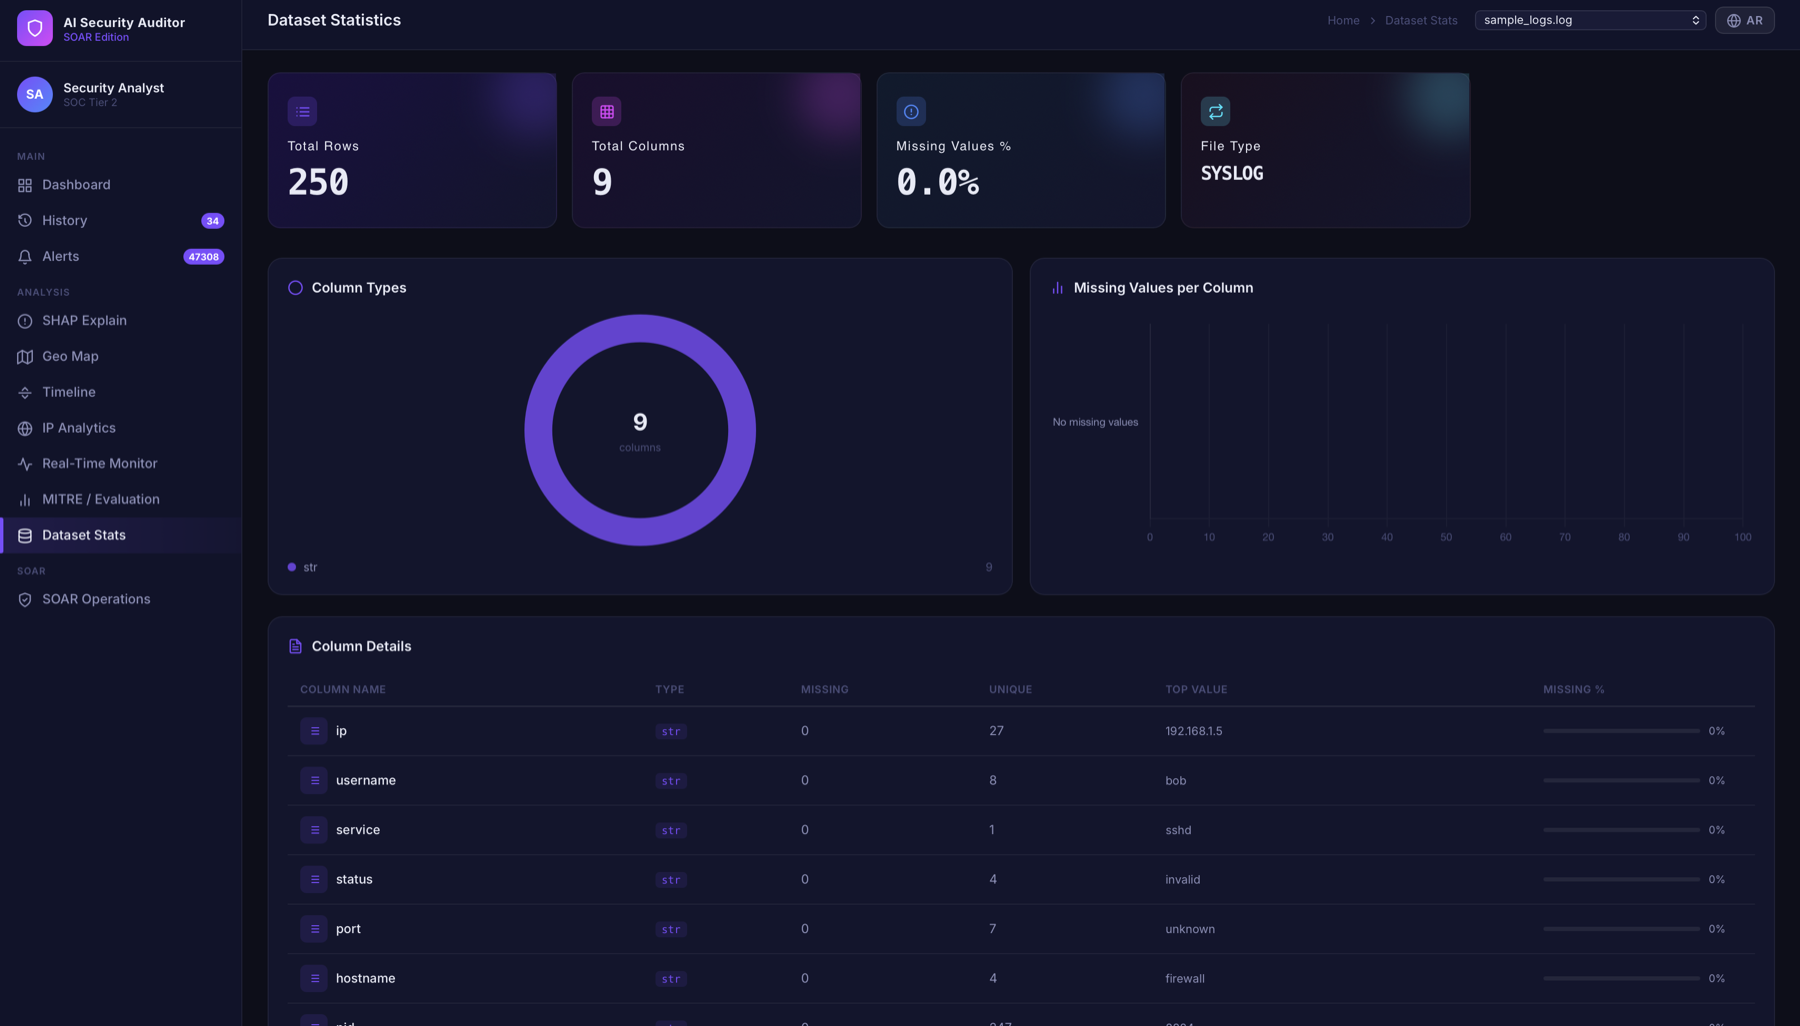
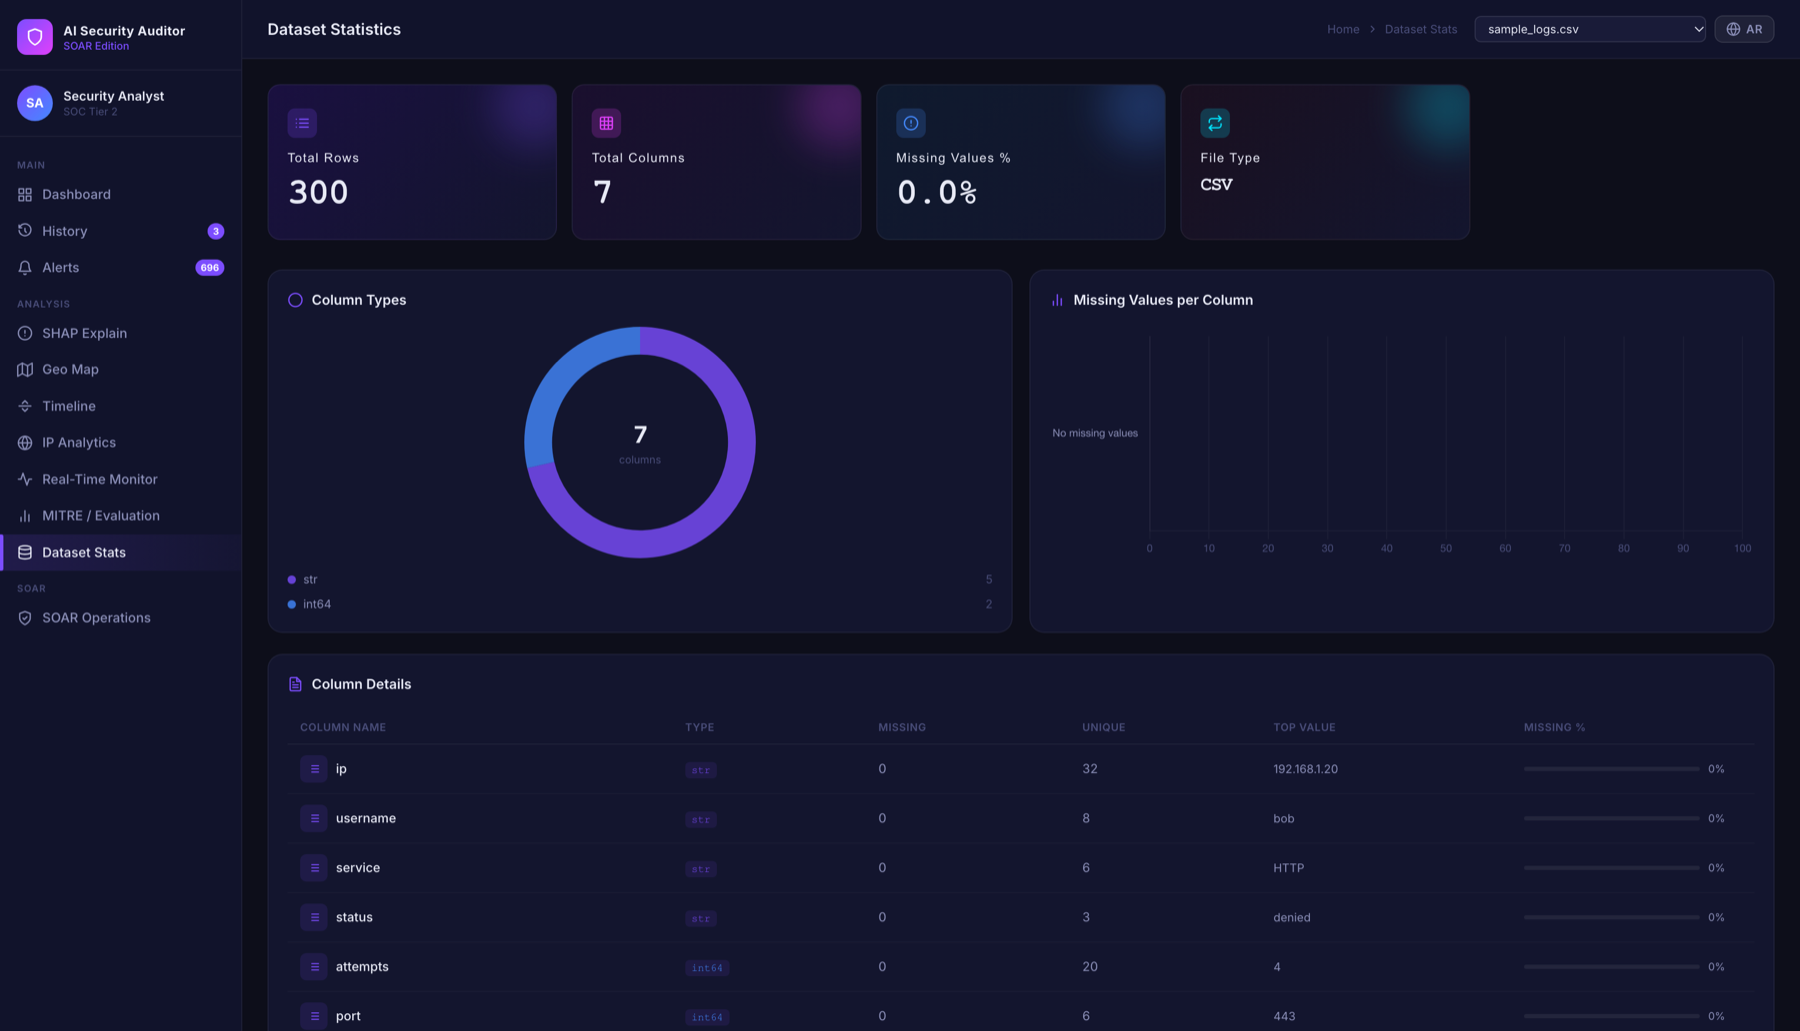
Fix SHAP and alerts display, refresh screenshots, add PORT setting
- SHAP: handle the 3D array returned by newer SHAP versions (the
  explanation and charts were silently empty); fix an invalid matplotlib
  color that broke the waterfall charts and close figures on errors
- Alerts page: map API fields (level/message) so severity counts and
  descriptions display correctly
- Restore static/logo_header.svg used by the methodology page
- Add PORT environment variable (macOS AirPlay occupies port 5000)
- Retake screenshots from sample_logs.csv so they match the README metrics
- Add a regression test for SHAP

diff --git a/static/js/app.js b/static/js/app.js
@@ -345,7 +345,12 @@ async function loadAlerts() {
   const rec  = await apiFetch(`/api/history/${id}`);
   scanDate = (rec.scanned_at||'').slice(0,10);
 
-  allAlerts = Array.isArray(data) ? data : [];
+  // The API returns {level, title, message}; this page works with {severity, description}.
+  allAlerts = (Array.isArray(data) ? data : []).map(a => ({
+    ...a,
+    severity:    a.severity || (a.level ? a.level.charAt(0).toUpperCase() + a.level.slice(1) : 'Low'),
+    description: a.description || a.message || ''
+  }));
 
   const cnt = { Critical:0, High:0, Medium:0, Low:0 };
   allAlerts.forEach(a => { const s = a.severity||'Low'; cnt[s] = (cnt[s]||0)+1; });

diff --git a/models/shap_explainer.py b/models/shap_explainer.py
@@ -51,7 +51,7 @@ def _summary_chart(sv: np.ndarray, feature_cols: list) -> str:
         ax.tick_params(colors="#8b8fb8", labelsize=8)
         for spine in ax.spines.values():
             spine.set_visible(False)
-        ax.xaxis.grid(True, color="rgba(255,255,255,0.05)", linestyle="--",
+        ax.xaxis.grid(True, color=(1, 1, 1, 0.05), linestyle="--",
                       linewidth=0.5)
         ax.set_axisbelow(True)
 
@@ -63,6 +63,7 @@ def _summary_chart(sv: np.ndarray, feature_cols: list) -> str:
         plt.tight_layout()
         return _chart_to_base64()
     except Exception:
+        plt.close("all")
         return ""
 
 
@@ -94,13 +95,14 @@ def _waterfall_chart(row_sv: np.ndarray, feature_cols: list,
         ax.tick_params(colors="#8b8fb8", labelsize=8)
         for spine in ax.spines.values():
             spine.set_visible(False)
-        ax.xaxis.grid(True, color="rgba(255,255,255,0.05)",
+        ax.xaxis.grid(True, color=(1, 1, 1, 0.05),
                       linestyle="--", linewidth=0.5)
         ax.set_axisbelow(True)
 
         plt.tight_layout()
         return _chart_to_base64()
     except Exception:
+        plt.close("all")
         return ""
 
 
@@ -115,9 +117,14 @@ def explain(model, X_all: np.ndarray, feature_cols: list,
         explainer   = shap.TreeExplainer(model)
         shap_values = explainer.shap_values(X_all)
 
-        sv = (shap_values[1]
-              if isinstance(shap_values, list) and len(shap_values) == 2
-              else shap_values)
+        # Older SHAP returns a list [class0, class1]; newer SHAP returns one
+        # array shaped (samples, features, classes). Keep the "suspicious" class.
+        if isinstance(shap_values, list) and len(shap_values) == 2:
+            sv = shap_values[1]
+        elif getattr(shap_values, "ndim", 2) == 3:
+            sv = shap_values[:, :, -1]
+        else:
+            sv = shap_values
 
         mean_abs   = np.abs(sv).mean(axis=0)
         sorted_idx = np.argsort(mean_abs)[::-1]

diff --git a/app.py b/app.py
@@ -44,11 +44,14 @@ app.config["SECRET_KEY"] = os.environ.get("SECRET_KEY") or os.urandom(24)
 # Debug mode is OFF unless explicitly enabled (FLASK_DEBUG=1). Never enable it on a real server.
 DEBUG = os.environ.get("FLASK_DEBUG", "0").strip().lower() in ("1", "true", "yes")
 
+# Port to listen on (default 5000). On macOS, AirPlay Receiver may occupy 5000 - set PORT=5001 if so.
+PORT = int(os.environ.get("PORT", "5000"))
+
 # WebSocket origins are restricted to the local dev URL(s); override with CORS_ORIGINS (comma-separated).
 CORS_ORIGINS = [
     o.strip()
     for o in os.environ.get(
-        "CORS_ORIGINS", "http://localhost:5000,http://127.0.0.1:5000"
+        "CORS_ORIGINS", f"http://localhost:{PORT},http://127.0.0.1:{PORT}"
     ).split(",")
     if o.strip()
 ]
@@ -684,12 +687,12 @@ def api_soar_stats():
 if __name__ == "__main__":
     print("\n🛡  AI Security Auditor v10")
     print("=" * 40)
-    print("  Dashboard:  http://localhost:5000")
-    print("  History:    http://localhost:5000/history")
-    print("  Alerts:     http://localhost:5000/alerts")
-    print("  Timeline:   http://localhost:5000/timeline")
-    print("  Map:        http://localhost:5000/map")
-    print("  Monitor:    http://localhost:5000/monitor")
-    print("  IP Analytics: http://localhost:5000/ip-analytics")
+    print(f"  Dashboard:  http://localhost:{PORT}")
+    print(f"  History:    http://localhost:{PORT}/history")
+    print(f"  Alerts:     http://localhost:{PORT}/alerts")
+    print(f"  Timeline:   http://localhost:{PORT}/timeline")
+    print(f"  Map:        http://localhost:{PORT}/map")
+    print(f"  Monitor:    http://localhost:{PORT}/monitor")
+    print(f"  IP Analytics: http://localhost:{PORT}/ip-analytics")
     print("=" * 40 + "\n")
-    socketio.run(app, debug=DEBUG, port=5000)
+    socketio.run(app, debug=DEBUG, port=PORT)

diff --git a/test_system.py b/test_system.py
@@ -137,3 +137,21 @@ def test_syslog_parsing():
         assert "success" in statuses
     finally:
         os.remove(tmp_path)
+
+
+def test_shap_explanation_is_produced():
+    """Regression: newer SHAP returns a 3D array; the explainer must still work."""
+    import numpy as np
+    from sklearn.ensemble import RandomForestClassifier
+    from models import shap_explainer
+
+    rng = np.random.default_rng(0)
+    X = rng.random((120, 5))
+    y = (X[:, 0] + X[:, 1] > 1).astype(int)
+    model = RandomForestClassifier(n_estimators=30, max_depth=6, random_state=0).fit(X, y)
+
+    result = shap_explainer.explain(model, X, list("abcde"), y == 1)
+
+    assert result["available"] is True
+    assert result["total_explained"] > 0
+    assert len(result["feature_importance"]) == 5

diff --git a/README.md b/README.md
@@ -60,7 +60,7 @@ Measured on the bundled sample dataset (`data/sample_logs.csv`, 300 records, 80/
 
 Selected model: precision 98.1%, recall 89.7%.
 
-Testing: **20/20** documented functional test cases passed (upload formats, detection rules, model selection, SHAP, MITRE mapping, alerts, exports, real-time monitor, history, rate limiting, batch analysis), plus **10 automated unit tests** (see below).
+Testing: **20/20** documented functional test cases passed (upload formats, detection rules, model selection, SHAP, MITRE mapping, alerts, exports, real-time monitor, history, rate limiting, batch analysis), plus **11 automated unit tests** (see below).
 
 > These figures come from a small, synthetic sample set intended to validate the pipeline end to end. See *Limitations*.
 
@@ -85,6 +85,8 @@ python app.py
 
 Open <http://localhost:5000> and upload `data/sample_logs.csv` (or the `.json` / `.log` samples) to try it.
 
+> On macOS, port 5000 is often taken by AirPlay Receiver. If you see a 403 or a blank page, run on another port, e.g. `PORT=5001 python app.py`, and open that port instead.
+
 ### Configuration
 
 Settings are read from environment variables or a local `.env` file (never committed):
@@ -92,8 +94,9 @@ Settings are read from environment variables or a local `.env` file (never commi
 | Variable | Default | Purpose |
 |---|---|---|
 | `SECRET_KEY` | random per start | Flask session signing key |
+| `PORT` | `5000` | Port the server listens on |
 | `FLASK_DEBUG` | `0` (off) | Debug mode - for local development only |
-| `CORS_ORIGINS` | `http://localhost:5000,http://127.0.0.1:5000` | Allowed WebSocket origins |
+| `CORS_ORIGINS` | `http://localhost:<PORT>,http://127.0.0.1:<PORT>` | Allowed WebSocket origins |
 | `TRUST_PROXY` | `0` | Set to `1` behind a reverse proxy to read `X-Forwarded-For` |
 | `ABUSEIPDB_API_KEY` | empty | Optional; without it the threat-intelligence panel shows mock data |
 
@@ -116,7 +119,7 @@ python -m pytest test_system.py -v
 | **Analysis history** | **SOAR operations center** |
 | ![Analysis history](docs/screenshots/history.png) | ![SOAR operations](docs/screenshots/soar.png) |
 
-*Screenshots were taken while analyzing the bundled `sample_logs.log`; the metrics in the Results section above are for `sample_logs.csv`.*
+*Screenshots were taken after analyzing the bundled sample files; the dashboard, evaluation, SHAP, alerts, IP and dataset pages show `sample_logs.csv`, the same dataset as the Results section.*
 
 ## Project structure
 
